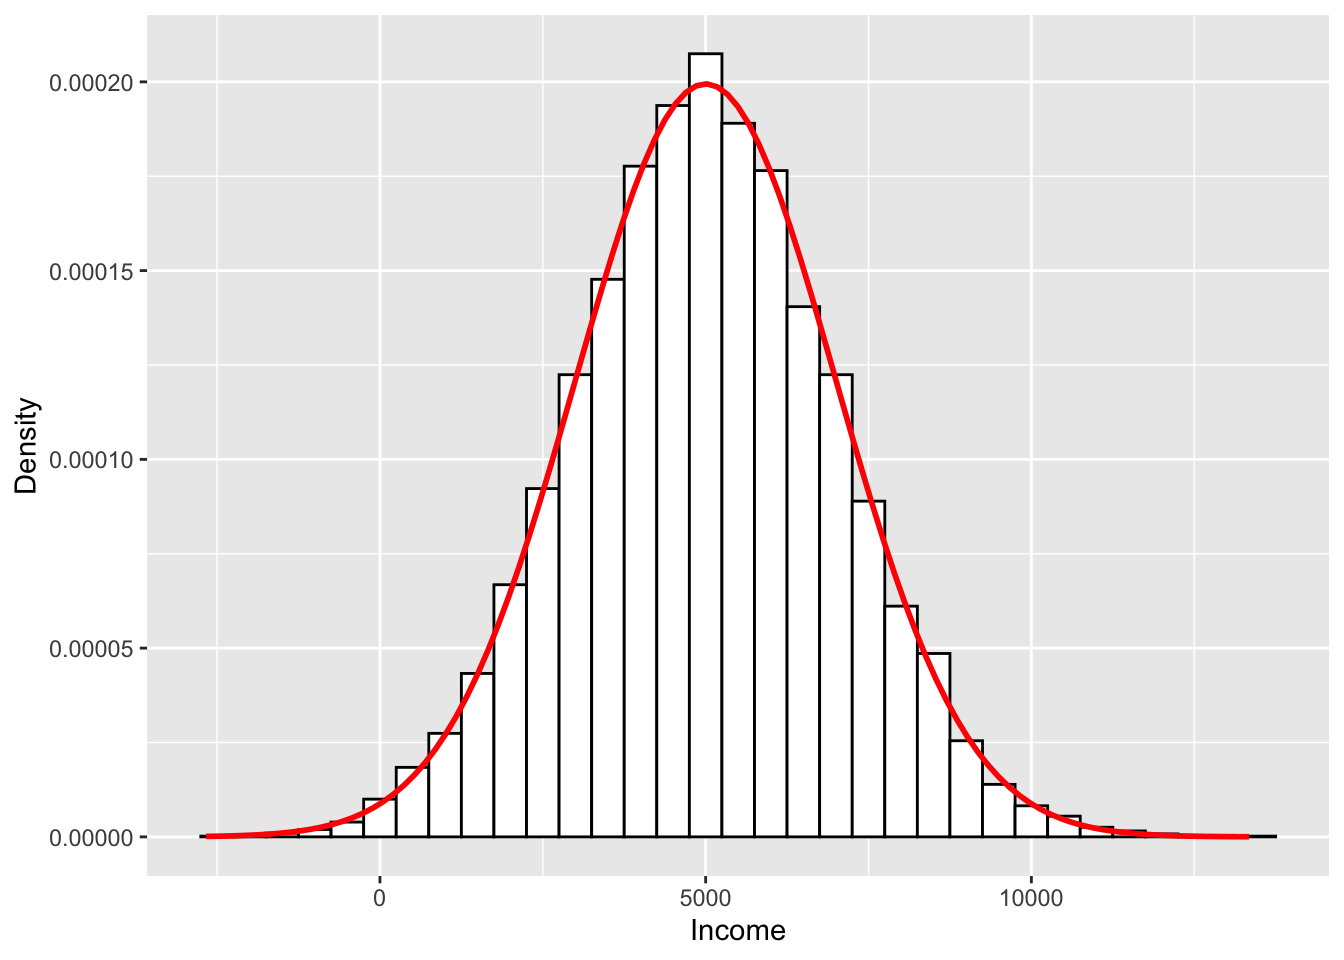
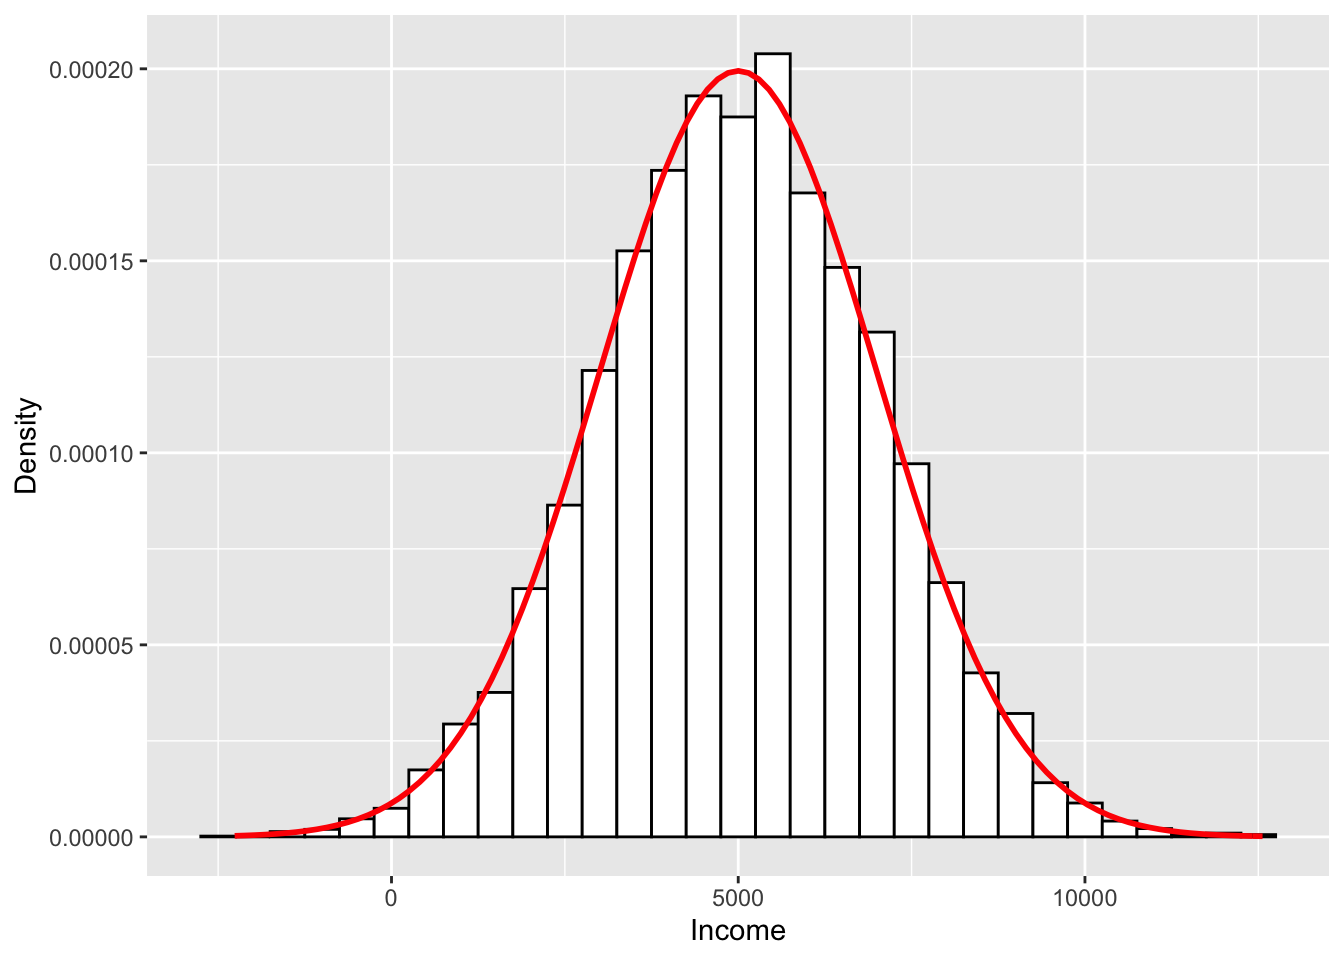
no message

diff --git a/rprogramming/index.html b/rprogramming/index.html
@@ -836,14 +836,17 @@ while (Total &lt; 30) {
   
   Trial &lt;- Trial + 1
 }</code></pre>
-<pre><code>## [1] &quot;1回目のサイコロ投げの結果: 6(これまでの総和: 6)&quot;
-## [1] &quot;2回目のサイコロ投げの結果: 3(これまでの総和: 9)&quot;
-## [1] &quot;3回目のサイコロ投げの結果: 6(これまでの総和: 15)&quot;
-## [1] &quot;4回目のサイコロ投げの結果: 5(これまでの総和: 20)&quot;
-## [1] &quot;5回目のサイコロ投げの結果: 1(これまでの総和: 21)&quot;
-## [1] &quot;6回目のサイコロ投げの結果: 6(これまでの総和: 27)&quot;
-## [1] &quot;7回目のサイコロ投げの結果: 1(これまでの総和: 28)&quot;
-## [1] &quot;8回目のサイコロ投げの結果: 4(これまでの総和: 32)&quot;</code></pre>
+<pre><code>## [1] &quot;1回目のサイコロ投げの結果: 2(これまでの総和: 2)&quot;
+## [1] &quot;2回目のサイコロ投げの結果: 1(これまでの総和: 3)&quot;
+## [1] &quot;3回目のサイコロ投げの結果: 1(これまでの総和: 4)&quot;
+## [1] &quot;4回目のサイコロ投げの結果: 2(これまでの総和: 6)&quot;
+## [1] &quot;5回目のサイコロ投げの結果: 5(これまでの総和: 11)&quot;
+## [1] &quot;6回目のサイコロ投げの結果: 2(これまでの総和: 13)&quot;
+## [1] &quot;7回目のサイコロ投げの結果: 2(これまでの総和: 15)&quot;
+## [1] &quot;8回目のサイコロ投げの結果: 4(これまでの総和: 19)&quot;
+## [1] &quot;9回目のサイコロ投げの結果: 2(これまでの総和: 21)&quot;
+## [1] &quot;10回目のサイコロ投げの結果: 5(これまでの総和: 26)&quot;
+## [1] &quot;11回目のサイコロ投げの結果: 5(これまでの総和: 31)&quot;</code></pre>
 <p>それでは、コードの説明をします。まず、これまで出た目の和を記録する変数<code>Total</code>を用意し、初期値として0を格納します。また、何回目の投げかを記録するための<code>Trial</code>変数を記録し、初期値として1を格納しておきます (コードの1、2行目)。</p>
 <p>続いて<code>while()</code>文を入れます。反復する条件は<code>Total</code>が30より小さい場合と設定します。つまり、<code>Total</code>が30以上になったら反復を終了することを意味します (コードの4行目)。</p>
 <p>つづいて、サイコロ投げをし、出た目を<code>Dice</code>という変数に格納します。サイコロ投げは1から6の間の整数から無作為に一つを値を抽出することでできます。そこで使われるのが<code>sample()</code>関数です (コードの5行目)。<code>sample()</code>関数は与えられたベクトル内の要素を無作為に抽出する関数です。<code>sample(c(1, 2, 3, 4, 5, 6), 1)</code>は「<code>c(1, 2, 3, 4, 5, 6)</code>から1つの要素を無作為に抽出せよ」という意味です。むろん、複数の要素を抽出することも可能ですし、数値型ベクトルでなく、文字型ベクトルから抽出することも可能です。サイコロ投げをしたら、その目を<code>Total</code>の値に足します (コードの6行目)。</p>
@@ -865,14 +868,13 @@ for (Trial in 1:30) {
   }
 }</code></pre>
 <pre><code>## [1] &quot;1回目のサイコロ投げの結果: 2 (これまでの総和: 2)&quot;
-## [1] &quot;2回目のサイコロ投げの結果: 3 (これまでの総和: 5)&quot;
-## [1] &quot;3回目のサイコロ投げの結果: 5 (これまでの総和: 10)&quot;
-## [1] &quot;4回目のサイコロ投げの結果: 2 (これまでの総和: 12)&quot;
-## [1] &quot;5回目のサイコロ投げの結果: 6 (これまでの総和: 18)&quot;
-## [1] &quot;6回目のサイコロ投げの結果: 6 (これまでの総和: 24)&quot;
-## [1] &quot;7回目のサイコロ投げの結果: 2 (これまでの総和: 26)&quot;
-## [1] &quot;8回目のサイコロ投げの結果: 3 (これまでの総和: 29)&quot;
-## [1] &quot;9回目のサイコロ投げの結果: 1 (これまでの総和: 30)&quot;</code></pre>
+## [1] &quot;2回目のサイコロ投げの結果: 5 (これまでの総和: 7)&quot;
+## [1] &quot;3回目のサイコロ投げの結果: 6 (これまでの総和: 13)&quot;
+## [1] &quot;4回目のサイコロ投げの結果: 5 (これまでの総和: 18)&quot;
+## [1] &quot;5回目のサイコロ投げの結果: 1 (これまでの総和: 19)&quot;
+## [1] &quot;6回目のサイコロ投げの結果: 6 (これまでの総和: 25)&quot;
+## [1] &quot;7回目のサイコロ投げの結果: 2 (これまでの総和: 27)&quot;
+## [1] &quot;8回目のサイコロ投げの結果: 4 (これまでの総和: 31)&quot;</code></pre>
 <p>まず、サイコロを何回投げれば良いかは分かりませんが6面サイコロの場合、30回以内には必ず合計30になるので、まず<code>Trial in 1:30</code>とします。あとは<code>while()</code>文の書き方とほぼ同じですが、今回は<code>i</code>が自動的に更新されるので<code>i &lt;- i + 1</code>は不要です。ただし、一定の条件が満たされる場合、<code>for()</code>文を停止する必要があります。そこで登場するのが条件分岐と<code>break()</code>です。条件分岐は次節で説明しますが、これは「<code>Total</code>が30以上になった場合、ループから脱出せよ」を意味します。このループからの脱出を指示する関数が<code>break()</code>です。ちなみに、<code>break()</code>関数は<code>()</code>を抜いて<code>break</code>と書いても問題ありません。また、<code>if(){}</code>内の処理内容は一行ですので、<code>if (Total &gt;= 30) break</code>のような書き方でも問題ありません。</p>
 <p>これは余談ですが、結果の表示に今回はこれまで使ってきた<code>print()</code>と<code>paste0()</code> (または<code>paste()</code>)を使わず、<code>sprintf()</code>を使いました。人によってはこっちの書き方を好む場合もあります。<code>sprintf()</code>内の<code>%d</code>はその位置に指定された変数の値を整数として代入することを意味します。<code>sprintf()</code>はまず、出力する文字列を指定し、続いて代入する変数を順番に引数として入れます。<code>%s</code>は文字型、<code>%f</code>は実数を意味します。<code>%f</code>の場合、少数点の桁数も指定可能であり、小数点2桁まで表示させる場合は<code>%.2f</code>のように表記します。以下のコードは3つの変数の値と文字列を結合する処理を<code>print(paste0())</code>と<code>sprintf()</code>を用いて書いたものであり、同じ動きをします。</p>
 <pre class="r"><code>Name   &lt;- &quot;Song&quot;
@@ -1342,36 +1344,27 @@ DQ_Attack &lt;- function(attack, defence, hp, enemy) {
 <p>初めて見る関数が3つありますね。まず、<code>floor()</code>関数は引数の端数は切り捨てる関数です。たとえば、<code>floor(2.1)</code>も<code>floor(2.6)</code>も結果は2です。続いて、<code>runif()</code>関数は指定された範囲の一様分布から乱数を生成する関数です。引数は生成する乱数の個数 (<code>n</code>)、最小値 (<code>min</code>)、最大値 (<code>max</code>)の3つです。<code>runif(5, 3, 10)</code>なら最小値3、最大値10の乱数を5個生成するという意味です。正規分布は平均値周辺の値が生成されやすい一方、一様分布の場合、ある値が抽出される確率は同じです。最後に<code>round()</code>関数は四捨五入の関数です。引数は2つあり、1つ目の引数は数値型のベクトルです。2つ目は丸める小数点です。たとえば、<code>round(3.127, 1)</code>の結果は<code>3.1</code>であり、<code>round(3.127, 2)</code>の結果は<code>3.13</code>となります。</p>
 <p>それでは「ひのきのぼう」を装備したレベル1の勇者を考えてみましょう。ドラクエ5の場合、Lv1勇者の力は11、「ひのきのぼう」の攻撃力は2ですので、攻撃力は13です。まずは定番のスライムから狩ってみましょう。スライムのHPと守備力は両方7です。</p>
 <pre class="r"><code>DQ_Attack(13, defence = 7, hp = 7, &quot;スライム&quot;)</code></pre>
-<pre><code>## [1] &quot;スライムに4のダメージ!!&quot;
+<pre><code>## [1] &quot;スライムに5のダメージ!!&quot;
 ## [1] &quot;スライムに5のダメージ!!&quot;</code></pre>
 <pre><code>## [1] &quot;スライムをやっつけた！&quot;</code></pre>
 <p>まぁ、こんなもんでしょう。それではスライムナイト (=ピエール)はどうでしょう。スライムナイトのHPのは40、守備力は44です。</p>
 <pre class="r"><code>DQ_Attack(13, defence = 44, hp = 40, &quot;スライムナイト&quot;)</code></pre>
 <pre><code>## [1] &quot;スライムナイトに1のダメージ!!&quot;
-## [1] &quot;スライムナイトに0のダメージ!!&quot;
-## [1] &quot;スライムナイトに1のダメージ!!&quot;
-## [1] &quot;スライムナイトに0のダメージ!!&quot;
-## [1] &quot;スライムナイトに1のダメージ!!&quot;
-## [1] &quot;スライムナイトに0のダメージ!!&quot;
-## [1] &quot;スライムナイトに1のダメージ!!&quot;
-## [1] &quot;スライムナイトに0のダメージ!!&quot;
-## [1] &quot;スライムナイトに0のダメージ!!&quot;
-## [1] &quot;スライムナイトに1のダメージ!!&quot;
-## [1] &quot;スライムナイトに1のダメージ!!&quot;
-## [1] &quot;スライムナイトに1のダメージ!!&quot;
-## [1] &quot;スライムナイトに1のダメージ!!&quot;
 ## [1] &quot;スライムナイトに1のダメージ!!&quot;
 ## [1] &quot;スライムナイトに1のダメージ!!&quot;
 ## [1] &quot;スライムナイトに1のダメージ!!&quot;
 ## [1] &quot;スライムナイトに0のダメージ!!&quot;
-## [1] &quot;スライムナイトに1のダメージ!!&quot;
 ## [1] &quot;スライムナイトに0のダメージ!!&quot;
 ## [1] &quot;スライムナイトに0のダメージ!!&quot;
 ## [1] &quot;スライムナイトに1のダメージ!!&quot;
-## [1] &quot;スライムナイトに1のダメージ!!&quot;
 ## [1] &quot;スライムナイトに0のダメージ!!&quot;
 ## [1] &quot;スライムナイトに1のダメージ!!&quot;
+## [1] &quot;スライムナイトに1のダメージ!!&quot;
 ## [1] &quot;スライムナイトに0のダメージ!!&quot;
+## [1] &quot;スライムナイトに0のダメージ!!&quot;
+## [1] &quot;スライムナイトに0のダメージ!!&quot;
+## [1] &quot;スライムナイトに0のダメージ!!&quot;
+## [1] &quot;スライムナイトに1のダメージ!!&quot;
 ## [1] &quot;スライムナイトに1のダメージ!!&quot;
 ## [1] &quot;スライムナイトに1のダメージ!!&quot;
 ## [1] &quot;スライムナイトに1のダメージ!!&quot;
@@ -1381,43 +1374,53 @@ DQ_Attack &lt;- function(attack, defence, hp, enemy) {
 ## [1] &quot;スライムナイトに1のダメージ!!&quot;
 ## [1] &quot;スライムナイトに1のダメージ!!&quot;
 ## [1] &quot;スライムナイトに1のダメージ!!&quot;
-## [1] &quot;スライムナイトに1のダメージ!!&quot;
 ## [1] &quot;スライムナイトに0のダメージ!!&quot;
-## [1] &quot;スライムナイトに1のダメージ!!&quot;
-## [1] &quot;スライムナイトに1のダメージ!!&quot;
-## [1] &quot;スライムナイトに1のダメージ!!&quot;
-## [1] &quot;スライムナイトに0のダメージ!!&quot;
-## [1] &quot;スライムナイトに1のダメージ!!&quot;
-## [1] &quot;スライムナイトに1のダメージ!!&quot;
-## [1] &quot;スライムナイトに1のダメージ!!&quot;
-## [1] &quot;スライムナイトに0のダメージ!!&quot;
-## [1] &quot;スライムナイトに0のダメージ!!&quot;
-## [1] &quot;スライムナイトに1のダメージ!!&quot;
-## [1] &quot;スライムナイトに1のダメージ!!&quot;
-## [1] &quot;スライムナイトに0のダメージ!!&quot;
-## [1] &quot;スライムナイトに0のダメージ!!&quot;
-## [1] &quot;スライムナイトに1のダメージ!!&quot;
-## [1] &quot;スライムナイトに0のダメージ!!&quot;
-## [1] &quot;スライムナイトに0のダメージ!!&quot;
-## [1] &quot;スライムナイトに1のダメージ!!&quot;
-## [1] &quot;スライムナイトに1のダメージ!!&quot;
-## [1] &quot;スライムナイトに0のダメージ!!&quot;
-## [1] &quot;スライムナイトに1のダメージ!!&quot;
 ## [1] &quot;スライムナイトに1のダメージ!!&quot;
 ## [1] &quot;スライムナイトに0のダメージ!!&quot;
 ## [1] &quot;スライムナイトに1のダメージ!!&quot;
 ## [1] &quot;スライムナイトに0のダメージ!!&quot;
 ## [1] &quot;スライムナイトに0のダメージ!!&quot;
+## [1] &quot;スライムナイトに0のダメージ!!&quot;
+## [1] &quot;スライムナイトに1のダメージ!!&quot;
+## [1] &quot;スライムナイトに0のダメージ!!&quot;
+## [1] &quot;スライムナイトに1のダメージ!!&quot;
+## [1] &quot;スライムナイトに1のダメージ!!&quot;
+## [1] &quot;スライムナイトに1のダメージ!!&quot;
+## [1] &quot;スライムナイトに1のダメージ!!&quot;
+## [1] &quot;スライムナイトに1のダメージ!!&quot;
+## [1] &quot;スライムナイトに0のダメージ!!&quot;
+## [1] &quot;スライムナイトに1のダメージ!!&quot;
+## [1] &quot;スライムナイトに1のダメージ!!&quot;
+## [1] &quot;スライムナイトに1のダメージ!!&quot;
+## [1] &quot;スライムナイトに0のダメージ!!&quot;
+## [1] &quot;スライムナイトに1のダメージ!!&quot;
+## [1] &quot;スライムナイトに1のダメージ!!&quot;
+## [1] &quot;スライムナイトに0のダメージ!!&quot;
+## [1] &quot;スライムナイトに0のダメージ!!&quot;
+## [1] &quot;スライムナイトに0のダメージ!!&quot;
+## [1] &quot;スライムナイトに1のダメージ!!&quot;
+## [1] &quot;スライムナイトに1のダメージ!!&quot;
+## [1] &quot;スライムナイトに1のダメージ!!&quot;
+## [1] &quot;スライムナイトに1のダメージ!!&quot;
+## [1] &quot;スライムナイトに0のダメージ!!&quot;
+## [1] &quot;スライムナイトに0のダメージ!!&quot;
 ## [1] &quot;スライムナイトに1のダメージ!!&quot;
 ## [1] &quot;スライムナイトに0のダメージ!!&quot;
 ## [1] &quot;スライムナイトに0のダメージ!!&quot;
 ## [1] &quot;スライムナイトに0のダメージ!!&quot;
 ## [1] &quot;スライムナイトに0のダメージ!!&quot;
 ## [1] &quot;スライムナイトに0のダメージ!!&quot;
+## [1] &quot;スライムナイトに1のダメージ!!&quot;
+## [1] &quot;スライムナイトに1のダメージ!!&quot;
+## [1] &quot;スライムナイトに1のダメージ!!&quot;
+## [1] &quot;スライムナイトに1のダメージ!!&quot;
+## [1] &quot;スライムナイトに0のダメージ!!&quot;
 ## [1] &quot;スライムナイトに0のダメージ!!&quot;
 ## [1] &quot;スライムナイトに0のダメージ!!&quot;
 ## [1] &quot;スライムナイトに1のダメージ!!&quot;
 ## [1] &quot;スライムナイトに0のダメージ!!&quot;
+## [1] &quot;スライムナイトに0のダメージ!!&quot;
+## [1] &quot;スライムナイトに1のダメージ!!&quot;
 ## [1] &quot;スライムナイトに0のダメージ!!&quot;
 ## [1] &quot;スライムナイトに1のダメージ!!&quot;</code></pre>
 <pre><code>## [1] &quot;スライムナイトをやっつけた！&quot;</code></pre>

diff --git a/dplyr_intro/index.html b/dplyr_intro/index.html
@@ -1010,16 +1010,16 @@ select.df %&gt;%
 <pre><code>## # A tibble: 10 x 5
 ##    ID      Name                      Pref     Budget Score
 ##    &lt;chr&gt;   &lt;chr&gt;                     &lt;chr&gt;     &lt;dbl&gt; &lt;dbl&gt;
-##  1 6167549 かわせ 田尻店             和歌山県     NA    NA
-##  2 6908106 つけめん桜の如く          神奈川県    900    NA
-##  3 5026511 ラーメン ゆき             千葉県       NA    NA
-##  4 5507656 ひごっこ                  大阪府      850    NA
-##  5 7115947 麺69 チキンヒーロー       兵庫県       NA    NA
-##  6 6361506 百歩ラーメン 南浦和店     埼玉県       NA    NA
-##  7 5713514 ラーメン どん             神奈川県     NA    NA
-##  8 5495461 ラーメン亭よ志乃 幕張店   千葉県       NA    NA
-##  9 5494222 来集軒                    埼玉県       NA    NA
-## 10 5495447 ラーメンめん丸 おゆみ野店 千葉県       NA    NA</code></pre>
+##  1 6369930 いちばん家                神奈川県     NA    NA
+##  2 6384909 葛西大勝軒                東京都       NA     1
+##  3 7541256 九州豚骨ラーメン どらいん 埼玉県       NA    NA
+##  4 6663533 永吉                      埼玉県       NA    NA
+##  5 6898605 横浜家系らーめん 家丸     東京都      999    NA
+##  6 7733978 新福菜館 浅草店           東京都       NA    NA
+##  7 5808728 麺たま                    千葉県      850     3
+##  8 5500242 三栄ラーメン              神奈川県     NA    NA
+##  9 6277541 らぁめん 六郎亭           大阪府       NA    NA
+## 10 5495174 チャーシュー力 三芳店     埼玉県       NA    NA</code></pre>
 <p>のように書きます。ブートストラップ法や機械学習における交差検証 (cross-validation)の際に有用な関数ですが、ブートストラップや機械学習のパッケージの多くはサンプル分割の関数を提供しているため、あまり使う機会はないでしょう。また、<code>slice_sample()</code>関数をブートストラップ法のために用いる場合は、ケースを反復抽出する必要があり、<code>replace = TRUE</code>を付けると反復抽出を行います。デフォルト値は<code>FALSE</code>です。</p>
 </div>
 <div id="条件に合致する行を抽出する" class="section level3">
@@ -2295,8 +2295,9 @@ df2</code></pre>
 ## 7 奈良県         1169.         45       3.85   147
 ## 8 兵庫県         1197.        230       3.54   591
 ## 9 和歌山県       1252          83       3.97   140</code></pre>
-<p>ラーメン屋の店舗ですが、たしかにデータには埼玉、東京、大阪などは1000店舗しか入っておりません。実はもっと多いですが、ぐるなびAPIの仕様上、最大1000店舗しか情報取得が出来ないからです。ここに実際の店舗数が入っている新しいデータセット、<a href="Data/Ramen2.csv">Ramen2.csv</a>があります。これを読み込み、<code>df3</code>という名で格納しましょう。</p>
-<pre class="r"><code>df3 &lt;- read_csv(&quot;Data/Ramen2.csv&quot;)</code></pre>
+<p>ラーメン屋の店舗ですが、たしかにデータには埼玉、東京、大阪などは1000店舗しか入っておりません。実はもっと多いですが、ぐるなびAPIの仕様上、最大1000店舗しか情報取得が出来ないからです。ここに実際の店舗数が入っている新しいデータセット、<a href="../Data/Ramen2.csv">Ramen2.csv</a>があります。これを読み込み、<code>df3</code>という名で格納しましょう。</p>
+<pre class="r"><code># データのパスは適宜修正すること
+df3 &lt;- read_csv(&quot;Data/Ramen2.csv&quot;)</code></pre>
 <pre><code>## Parsed with column specification:
 ## cols(
 ##   Pref = col_character(),

diff --git a/simulation/llm/index.html b/simulation/llm/index.html
@@ -197,7 +197,7 @@ library(tidyverse)</code></pre>
 <p>これで10210人のナウル国民の所得を設定した。ならば生成されたデータを見てみる。</p>
 <pre class="r"><code>summary(nauru.income)</code></pre>
 <pre><code>##    Min. 1st Qu.  Median    Mean 3rd Qu.    Max. 
-##   -2669    3636    4983    4980    6314   13342</code></pre>
+##   -2262    3662    5032    5036    6422   12561</code></pre>
 <p>ナウル国民の所得の平均は5017ドル、最小値は-1761だそうだ。「所得にマイナスなんてあり得るか！」と思うかも知れないが、細かいことは無視しよう。知りたいのは大数の法則を経験的に確認することであって、ナウル国民の所得ではない。</p>
 <p>次はヒストグラムで見てみよう。</p>
 <pre class="r"><code>plot1 &lt;- ggplot(data = data.frame(nauru.income)) + 
